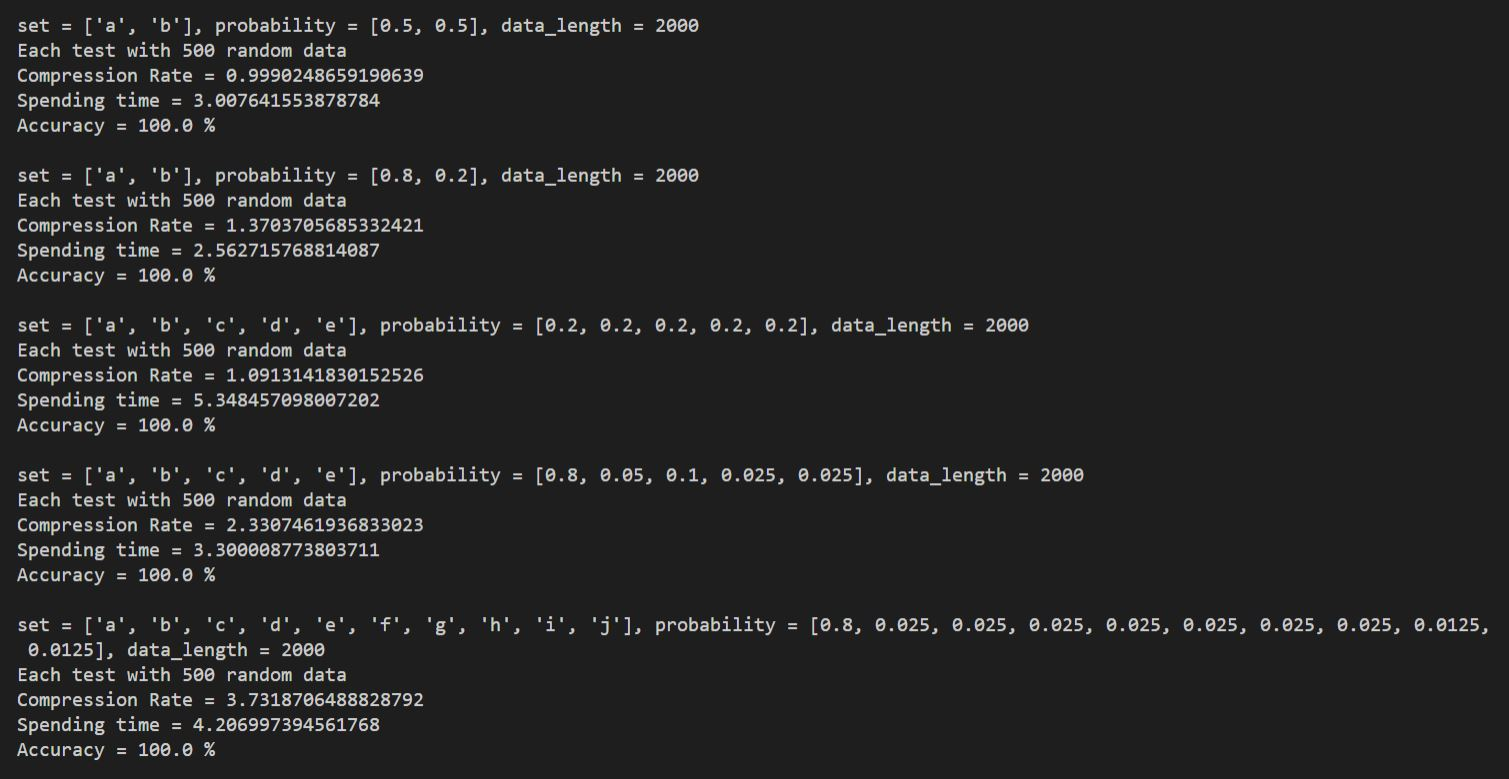
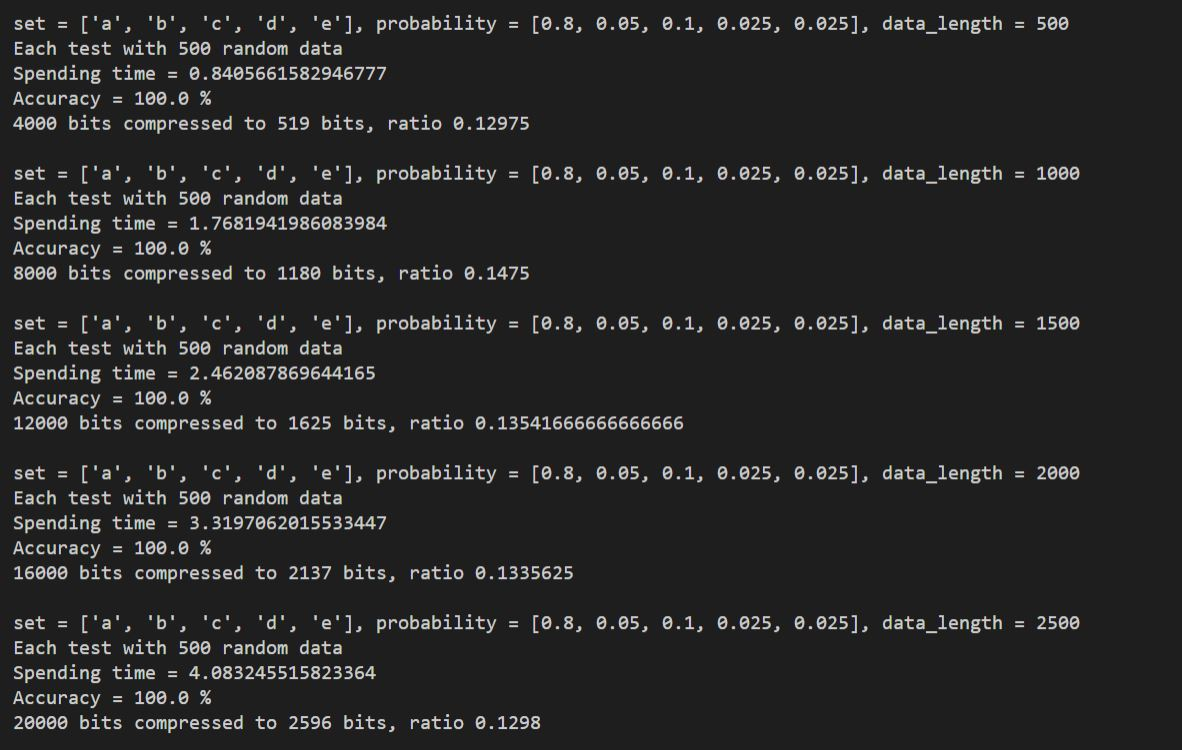
2022.05.07 20.37

diff --git a/ContextModeling.py b/ContextModeling.py
@@ -173,16 +173,8 @@ def random_data(set, probability, data_length):
     text = ''.join(text)
     return text
 
-def ratio(text, ciphertext):
-    bytes_in = bytes(text, 'utf-8')
-    bytes_out = bytes(ciphertext, 'utf-8')
-    lbi = len(bytes_in)
-    lbo = len(bytes_out)
-    ratio = lbo / lbi
-    message = '%d bytes compressed to %d bytes, ratio %0.9f\n'%(lbi,lbo,ratio)
-    print(message)
-
 if __name__ == '__main__':
+    '''
     '''
     set = ['a', 'b', 'c', 'd', 'e', 'f', 'g', 'h', 'i', 'j', 'k', 'l', 'm', 'n', 'o', 'p', 'q', \
                 'r', 's', 't' , 'u', 'v' , 'w', 'x', 'y' ,'z', ',', '.', ' ']
@@ -192,25 +184,11 @@ if __name__ == '__main__':
     print('=== Ciphertext : {} ==='.format(ciphertext))
     recovered_text = inv_contextmodeling(ciphertext, len(text), set)
     print('=== Recovered text : {} ==='.format(recovered_text))
-    print('=== Coding completion : {} ===\n'.format(text == recovered_text))
-    '''
-
-    #
-    '''
-    set = ['a', 'b', 'c', 'd', 'e', 'f', 'g', 'h', 'i', 'j', 'k', 'l', 'm', 'n', 'o', 'p', 'q', \
-                'r', 's', 't' , 'u', 'v' , 'w', 'x', 'y' ,'z', ',', '.', ' ']
-    print('\n')
-    for idx in range(5):
-        text = np.random.normal(15, 0.001, 2**20)
-        text = [set[int(i)] for i in text]
-        text = ''.join(text)
-        ciphertext = contextmodeling(text, set)
-        recovered_text = inv_contextmodeling(ciphertext, len(text), set)
-        print('=== Random {}: Coding completion = {} ==='.format(idx, (text==recovered_text)))
-        ratio(text, ciphertext)
-    '''
+    print('=== Coding completion : {} ==='.format(text == recovered_text))
+    print('=== {} bits compressed to {} bits, ratio {} ===\n'.format(len(text)*8, len(ciphertext), len(ciphertext)/(len(text)*8)))
 
     # Article
+    '''
     '''
     set = ['a', 'b', 'c', 'd', 'e', 'f', 'g', 'h', 'i', 'j', 'k', 'l', 'm', 'n', 'o', 'p', 'q', \
                 'r', 's', 't' , 'u', 'v' , 'w', 'x', 'y' ,'z', ',', '.', ' ']
@@ -218,11 +196,29 @@ if __name__ == '__main__':
     idx = 1
     print('\n')
     for line in f.readlines():
+        time_start = time.time()
         text  = line.lower()[:-2]
         ciphertext = contextmodeling(text, set)
         recovered_text = inv_contextmodeling(ciphertext, len(text), set)
+        time_end = time.time()
         print('=== Article {}: Coding completion = {} ==='.format(idx, (text==recovered_text)))
-        print('Compression ratio = {}\n'.format(sys.getsizeof(text)*29/sys.getsizeof(ciphertext)/2))
-        #ratio(text, ciphertext)
+        print('Spending time = {}'.format(time_end-time_start))
+        print('{} bits compressed to {} bits, ratio {}\n'.format(len(text)*8, len(ciphertext), len(ciphertext)/(len(text)*8)))
         idx += 1
+
+    #
     '''
+    '''
+    set = ['a', 'b', 'c', 'd', 'e', 'f', 'g', 'h', 'i', 'j', 'k', 'l', 'm', 'n', 'o', 'p', 'q', \
+                'r', 's', 't' , 'u', 'v' , 'w', 'x', 'y' ,'z', ',', '.', ' ']
+    print('\n')
+    for idx in range(5):
+        text = np.random.normal(15, 0.01*idx, 2**20)
+        text = [set[int(i)] for i in text]
+        text = ''.join(text)
+        ciphertext = contextmodeling(text, set)
+        recovered_text = inv_contextmodeling(ciphertext, len(text), set)
+        print('=== Random {}: Coding completion = {} ==='.format(idx, (text==recovered_text)))
+        print('Normal distribution with variance = {} and length = {}'.format(0.01*idx, 2**20))
+        print('Spending time = {}'.format(time_end-time_start))
+        print('{} bits compressed to {} bits, ratio {}\n'.format(len(text)*8, len(ciphertext), len(ciphertext)/(len(text)*8)))

diff --git a/Arithmetic.py b/Arithmetic.py
@@ -118,18 +118,20 @@ def random_data(set, probability, data_length):
 if __name__ == '__main__':
     '''
     '''
-    set = ['a', 'b', 'c', 'd', 'e']
-    probability = [0.15, 0.35, 0.05, 0.25, 0.2]
-    data_length = 500
-    text = random_data(set, probability, data_length)
+    set = ['a', 'b']
+    probability = [0.8, 0.2]
+    data_length = 6
+    text = 'aaabaa'
     print('\n=== Random text : {} ==='.format(text))
     ciphertext = arithmetic(text, set, probability)
     print('=== Ciphertext : {} ==='.format(ciphertext))
     recovered_text = inv_arithmetic(ciphertext, data_length, set, probability)
     print('=== Recovered text : {} ==='.format(recovered_text))
-    print('=== Coding completion : {} ===\n'.format(text == recovered_text))
+    print('=== Coding completion : {} ==='.format(text == recovered_text))
+    print('=== {} bits compressed to {} bits, ratio {} ===\n'.format(len(text)*8, len(ciphertext), len(ciphertext)/(len(text)*8)))
 
     # Comparison with data length
+    '''
     '''
     set = ['a', 'b', 'c', 'd', 'e']
     probability = [0.8, 0.05, 0.1, 0.025, 0.025]
@@ -151,13 +153,13 @@ if __name__ == '__main__':
         time_end = time.time()
         print('\nset = {}, probability = {}, data_length = {}'.format(set, probability, data_length))
         print('Each test with {} random data'.format(number_data))
-        print('Test {} : Compression Rate = {}'.format(i+1, (original_data * len(set)) / (compression_data * 2)))
-        print('Test {} : Spending time = {}'.format(i+1, time_end-time_start))
-        print('Test {} : Accuracy = {} %'.format(i+1, (number_data-count)/number_data*100))
+        print('Spending time = {}'.format(time_end-time_start))
+        print('Accuracy = {} %'.format((number_data-count)/number_data*100))
+        print('{} bits compressed to {} bits, ratio {}'.format(len(text)*8, len(ciphertext), len(ciphertext)/(len(text)*8)))
     print('\n')
-    '''
 
     # Comparison with set length and different distribution of data
+    '''
     '''
     set1 = ['a', 'b']
     probability1 = [0.5, 0.5]
@@ -189,8 +191,7 @@ if __name__ == '__main__':
         time_end = time.time()
         print('\nset = {}, probability = {}, data_length = {}'.format(set, probability, data_length))
         print('Each test with {} random data'.format(number_data))
-        print('Compression Rate = {}'.format((original_data * len(set)) / (compression_data * 2)))
         print('Spending time = {}'.format(time_end-time_start))
         print('Accuracy = {} %'.format((number_data-count)/number_data*100))
+        print('{} bits compressed to {} bits, ratio {}'.format(len(text)*8, len(ciphertext), len(ciphertext)/(len(text)*8)))
     print('\n')
-    '''

diff --git a/Adaptive.py b/Adaptive.py
@@ -124,15 +124,16 @@ if __name__ == '__main__':
     '''
     set = ['a', 'b']
     text = 'aaabaa'
-    text = random_data(set, [0.8, 0.2], 3000)
     print('\n=== Random text : {} ==='.format(text))
     ciphertext = adaptive(text, set)
     print('=== Ciphertext : {} ==='.format(ciphertext))
     recovered_text = inv_adaptive(ciphertext, len(text), set)
     print('=== Recovered text : {} ==='.format(recovered_text))
-    print('=== Coding completion : {} ===\n'.format(text == recovered_text))
+    print('=== Coding completion : {} ==='.format(text == recovered_text))
+    print('=== {} bits compressed to {} bits, ratio {} ===\n'.format(len(text)*8, len(ciphertext), len(ciphertext)/(len(text)*8)))
 
     # Comparison with data length
+    '''
     '''
     set = ['a', 'b', 'c', 'd', 'e']
     probability = [0.8, 0.05, 0.1, 0.025, 0.025]
@@ -154,13 +155,14 @@ if __name__ == '__main__':
         time_end = time.time()
         print('\nset = {}, data_length = {}'.format(set, data_length))
         print('Each test with {} random data'.format(number_data))
-        print('Test {} : Compression Rate = {}'.format(i+1, (original_data * len(set)) / (compression_data * 2)))
-        print('Test {} : Spending time = {}'.format(i+1, time_end-time_start))
-        print('Test {} : Accuracy = {} %'.format(i+1, (number_data-count)/number_data*100))
+        print('Spending time = {}'.format(time_end-time_start))
+        print('Accuracy = {} %'.format((number_data-count)/number_data*100))
+        print('{} bits compressed to {} bits, ratio {}'.format(len(text)*8, len(ciphertext), len(ciphertext)/(len(text)*8)))
+        
     print('\n')
-    '''
 
     # Comparison with set length and different distribution of data
+    '''
     '''
     set1 = ['a', 'b']
     probability1 = [0.5, 0.5]
@@ -192,8 +194,8 @@ if __name__ == '__main__':
         time_end = time.time()
         print('\nset = {}, probability = {}, data_length = {}'.format(set, probability, data_length))
         print('Each test with {} random data'.format(number_data))
-        print('Compression Rate = {}'.format((original_data * len(set)) / (compression_data * 2)))
         print('Spending time = {}'.format(time_end-time_start))
         print('Accuracy = {} %'.format((number_data-count)/number_data*100))
+        print('{} bits compressed to {} bits, ratio {}'.format(len(text)*8, len(ciphertext), len(ciphertext)/(len(text)*8)))
+        
     print('\n')
-    '''
